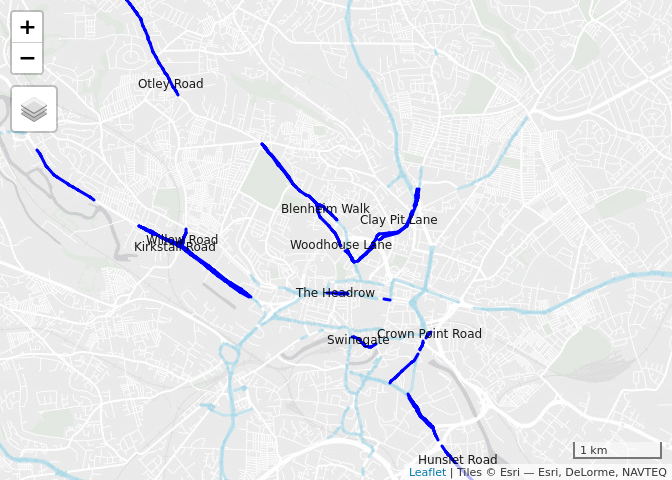
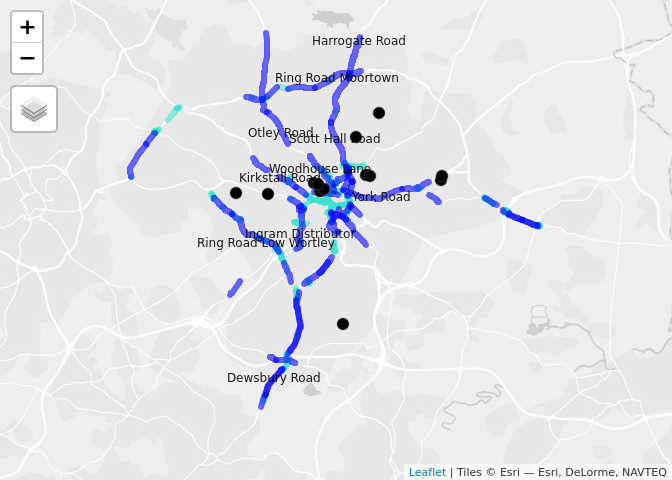
Updated results - leeds + london

diff --git a/README.md b/README.md
@@ -150,21 +150,24 @@ to Cycle Tool (see [www.pct.bike](https://www.pct.bike/)).
 
 ![](README_files/figure-gfm/london-1.png)<!-- -->
 
-| name                 | ref   | road\_type | cycling\_potential | length\_m |
-| :------------------- | :---- | :--------- | -----------------: | --------: |
-| Kennington Park Road | A3    | trunk      |               3255 |       925 |
-| Brixton Road         | A23   | trunk      |               2606 |      2849 |
-| Stoke Newington Road | A10   | trunk      |               2501 |       590 |
-| Camberwell New Road  | A202  | trunk      |               2420 |      1630 |
-| Waterloo Bridge      | A301  | primary    |               2398 |      1166 |
-| Theobalds Road       | A401  | primary    |               2267 |       565 |
-| Old Street           | A5201 | primary    |               2012 |       505 |
-| West Cromwell Road   | A4    | trunk      |               1971 |      1024 |
-| Jamaica Road         | A200  | primary    |               1926 |      1361 |
-| Tower Bridge Road    | A100  | trunk      |               1899 |      1191 |
+| name                | length | cycling\_potential | km\_cycled |
+| :------------------ | -----: | -----------------: | ---------: |
+| Brixton Road        |   2396 |               1619 |       3879 |
+| Camberwell New Road |   1190 |               2397 |       2854 |
+| Great West Road     |   4129 |                601 |       2481 |
+| Seven Sisters Road  |   3802 |                578 |       2198 |
+| Old Kent Road       |   1943 |               1119 |       2174 |
+| Aspen Way           |   3299 |                649 |       2141 |
+| Waterloo Bridge     |    661 |               3235 |       2139 |
+| Marylebone Road     |   3263 |                629 |       2052 |
+| York Road           |   1684 |               1136 |       1913 |
+| Battersea Park Road |   2468 |                750 |       1851 |
 
-See [london.html](https://cyipt.github.io/tempCycleways/london.html) for
-the interactive version of the map above.
+The top 10 candidate roads for space reallocation for pop-up active
+transport infrastructure according to methods developed for the project.
+
+See [london.html](https://cyipt.github.io/popupCycleways/london.html)
+for the interactive version of the map above.
 
 # Birmingham
 
@@ -184,7 +187,7 @@ the interactive version of the map above.
 | Aldridge Road            | A453  | primary    |                260 |      2674 |
 
 See
-[birmingham.html](https://cyipt.github.io/tempCycleways/birmingham.html)
+[birmingham.html](https://cyipt.github.io/popupCycleways/birmingham.html)
 for the interactive version of the map above.
 
 # Manchester
@@ -205,27 +208,30 @@ for the interactive version of the map above.
 | Princess Road           | A5103 | trunk      |                438 |     12230 |
 
 See
-[manchester.html](https://cyipt.github.io/tempCycleways/manchester.html)
+[manchester.html](https://cyipt.github.io/popupCycleways/manchester.html)
 for the interactive version of the map above.
 
 # Leeds
 
 ![](README_files/figure-gfm/leeds-1.png)<!-- -->
 
-| name             | ref  | road\_type | cycling\_potential | length\_m |
-| :--------------- | :--- | :--------- | -----------------: | --------: |
-| Willow Road      |      | tertiary   |                466 |       316 |
-| Woodhouse Lane   | A660 | trunk      |                368 |      2373 |
-| Blenheim Walk    | A660 | trunk      |                340 |       347 |
-| Otley Road       | A660 | trunk      |                325 |      7273 |
-| Swinegate        |      | secondary  |                318 |       309 |
-| Crown Point Road | A653 | primary    |                316 |       652 |
-| Kirkstall Road   | A65  | primary    |                261 |      3774 |
-| Clay Pit Lane    | A58  | trunk      |                257 |      2163 |
-| The Headrow      |      | tertiary   |                250 |       440 |
-| Hunslet Road     | A639 | primary    |                221 |      1860 |
+| name                  | length | cycling\_potential | km\_cycled |
+| :-------------------- | -----: | -----------------: | ---------: |
+| Otley Road            |   1766 |                758 |       1339 |
+| Scott Hall Road       |   8723 |                123 |       1073 |
+| Ring Road Low Wortley |   5177 |                151 |        782 |
+| Dewsbury Road         |   4073 |                178 |        725 |
+| Woodhouse Lane        |   2206 |                295 |        651 |
+| Kirkstall Road        |   1557 |                341 |        531 |
+| Ring Road Moortown    |   4152 |                123 |        511 |
+| York Road             |   1883 |                242 |        456 |
+| Harrogate Road        |   3254 |                123 |        400 |
+| Ingram Distributor    |   2771 |                137 |        380 |
 
-See [leeds.html](https://cyipt.github.io/tempCycleways/leeds.html) for
+The top 10 candidate roads for space reallocation for pop-up active
+transport infrastructure according to methods developed for the project.
+
+See [leeds.html](https://cyipt.github.io/popupCycleways/leeds.html) for
 the interactive version of the map above.
 
 # Liverpool
@@ -246,7 +252,7 @@ the interactive version of the map above.
 | Erskine Street | A580  | trunk      |                253 |       469 |
 
 See
-[liverpool.html](https://cyipt.github.io/tempCycleways/liverpool.html)
+[liverpool.html](https://cyipt.github.io/popupCycleways/liverpool.html)
 for the interactive version of the map above.
 
 # Bristol
@@ -266,7 +272,7 @@ for the interactive version of the map above.
 | Hotwell Road      | A4    | primary      |                117 |       533 |
 | East Street       |       | unclassified |                111 |       392 |
 
-See [bristol.html](https://cyipt.github.io/tempCycleways/bristol.html)
+See [bristol.html](https://cyipt.github.io/popupCycleways/bristol.html)
 for the interactive version of the map above.
 
 # Leicester
@@ -287,7 +293,7 @@ for the interactive version of the map above.
 | Belgrave Gate   | A607  | primary      |                156 |       822 |
 
 See
-[leicester.html](https://cyipt.github.io/tempCycleways/leicester.html)
+[leicester.html](https://cyipt.github.io/popupCycleways/leicester.html)
 for the interactive version of the map above.
 
 # Sheffield
@@ -308,7 +314,7 @@ for the interactive version of the map above.
 | Abbeydale Road    | A621  | primary    |                185 |      2044 |
 
 See
-[sheffield.html](https://cyipt.github.io/tempCycleways/sheffield.html)
+[sheffield.html](https://cyipt.github.io/popupCycleways/sheffield.html)
 for the interactive version of the map above.
 
 # Newcastle
@@ -329,7 +335,7 @@ for the interactive version of the map above.
 | Jedburgh Road       | A167  | trunk      |                130 |      5621 |
 
 See
-[newcastle.html](https://cyipt.github.io/tempCycleways/newcastle.html)
+[newcastle.html](https://cyipt.github.io/popupCycleways/newcastle.html)
 for the interactive version of the map above.
 
 # Cambridge
@@ -350,5 +356,5 @@ for the interactive version of the map above.
 | Station Place         |       | unclassified |                132 |       237 |
 
 See
-[cambridge.html](https://cyipt.github.io/tempCycleways/cambridge.html)
+[cambridge.html](https://cyipt.github.io/popupCycleways/cambridge.html)
 for the interactive version of the map above.
